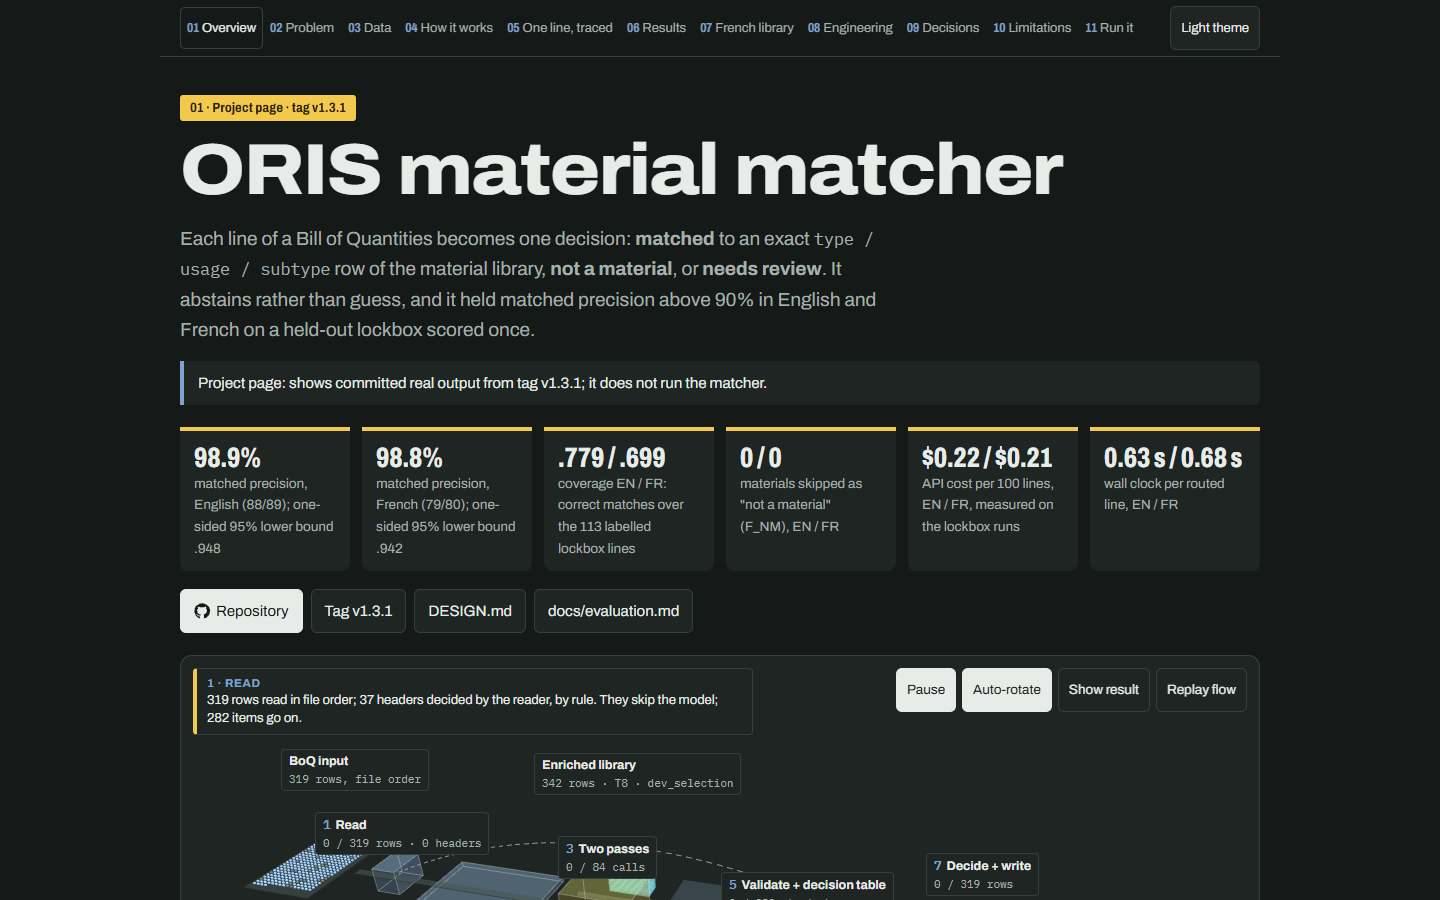
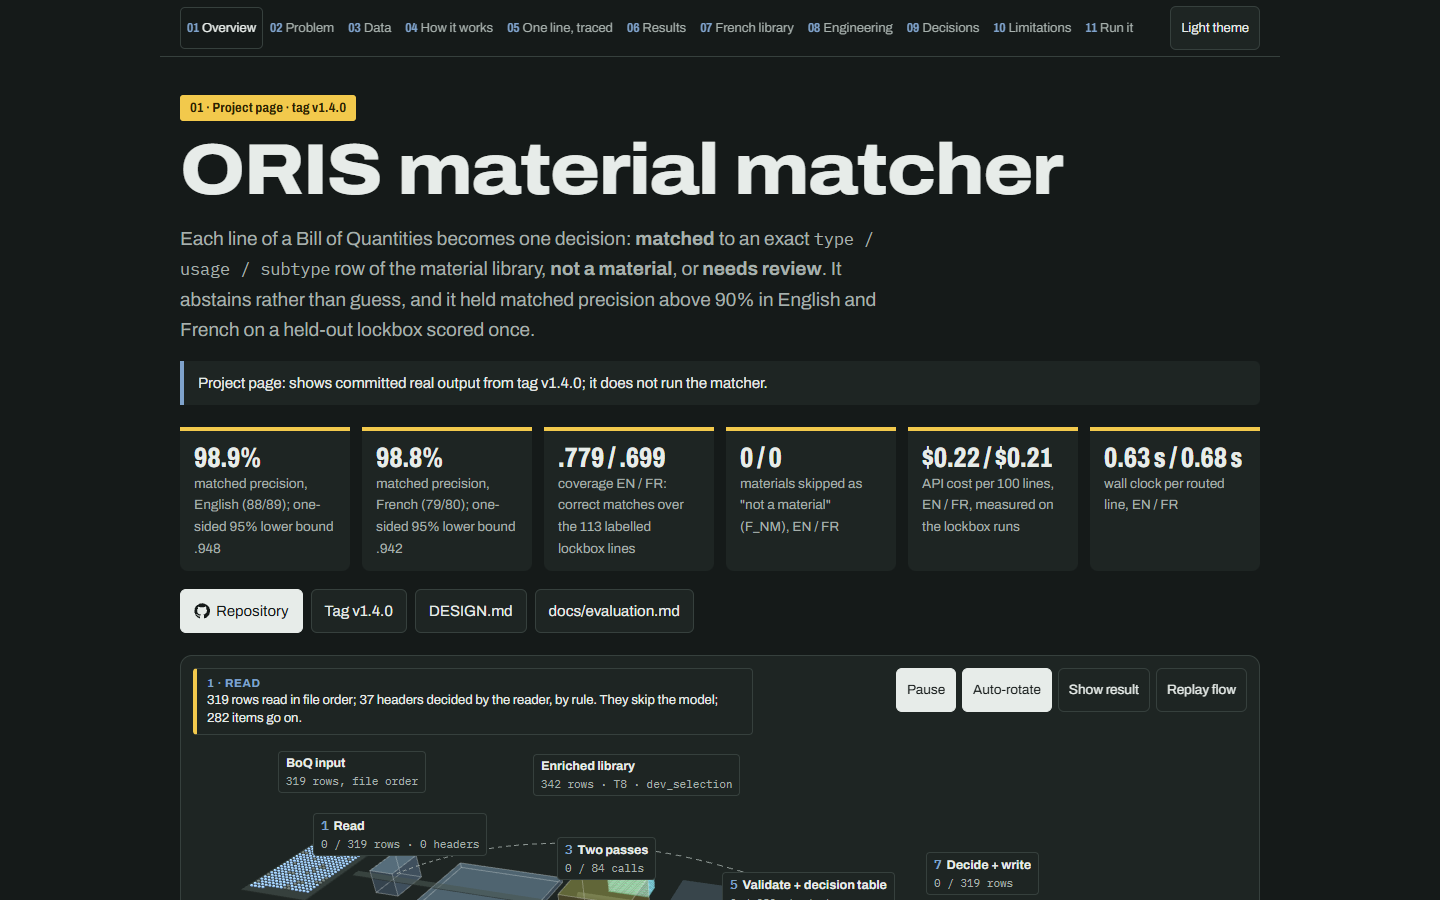
docs(site): reference the operator UI in the README, project page and changelog

diff --git a/site/index.html b/site/index.html
@@ -9,7 +9,7 @@
     <title>ORIS material matcher</title>
     <meta
       name="description"
-      content="Project page for the ORIS material matcher: it maps each Bill of Quantities line to an exact library row, or abstains, with lockbox-measured precision in English and French. Shows committed real output from tag v1.3.1."
+      content="Project page for the ORIS material matcher: it maps each Bill of Quantities line to an exact library row, or abstains, with lockbox-measured precision in English and French. Shows committed real output from tag v1.4.0."
     />
     <meta property="og:type" content="website" />
     <meta property="og:title" content="ORIS material matcher" />
@@ -67,7 +67,7 @@
         <code>data.json</code>, and that file could not be fetched, so the
         figures below are blank. The same numbers are in
         <a
-          href="https://github.com/soneeee22000/oris-material-matcher/blob/v1.3.1/docs/evaluation.md"
+          href="https://github.com/soneeee22000/oris-material-matcher/blob/v1.4.0/docs/evaluation.md"
           >docs/evaluation.md</a
         >.
       </div>
@@ -77,7 +77,7 @@
         style="padding-top: 36px"
         aria-labelledby="h-overview"
       >
-        <span class="tag">01 · Project page · tag v1.3.1</span>
+        <span class="tag">01 · Project page · tag v1.4.0</span>
         <h1 id="h-overview">ORIS material matcher</h1>
         <p class="lead" style="margin-top: 14px">
           Each line of a Bill of Quantities becomes one decision:
@@ -87,7 +87,7 @@
           in English and French on a held-out lockbox scored once.
         </p>
         <p class="honesty" id="honesty">
-          Project page: shows committed real output from tag v1.3.1; it does not
+          Project page: shows committed real output from tag v1.4.0; it does not
           run the matcher.
         </p>
         <div class="kpis" aria-label="The lockbox claim">
@@ -185,17 +185,17 @@
           </a>
           <a
             class="btn"
-            href="https://github.com/soneeee22000/oris-material-matcher/tree/v1.3.1"
-            >Tag v1.3.1</a
+            href="https://github.com/soneeee22000/oris-material-matcher/tree/v1.4.0"
+            >Tag v1.4.0</a
           >
           <a
             class="btn"
-            href="https://github.com/soneeee22000/oris-material-matcher/blob/v1.3.1/DESIGN.md"
+            href="https://github.com/soneeee22000/oris-material-matcher/blob/v1.4.0/DESIGN.md"
             >DESIGN.md</a
           >
           <a
             class="btn"
-            href="https://github.com/soneeee22000/oris-material-matcher/blob/v1.3.1/docs/evaluation.md"
+            href="https://github.com/soneeee22000/oris-material-matcher/blob/v1.4.0/docs/evaluation.md"
             >docs/evaluation.md</a
           >
         </div>
@@ -553,7 +553,7 @@
             <p class="tiny muted" style="margin: 10px 0 0">
               No item-specific rule encodes any of them. Source:
               <a
-                href="https://github.com/soneeee22000/oris-material-matcher/blob/v1.3.1/docs/data-analysis.md"
+                href="https://github.com/soneeee22000/oris-material-matcher/blob/v1.4.0/docs/data-analysis.md"
                 >docs/data-analysis.md</a
               >.
             </p>
@@ -616,7 +616,7 @@
           ground truth. The full transcripts, with every call id and provider
           request id, are in
           <a
-            href="https://github.com/soneeee22000/oris-material-matcher/blob/v1.3.1/docs/traced-cases.md"
+            href="https://github.com/soneeee22000/oris-material-matcher/blob/v1.4.0/docs/traced-cases.md"
             >docs/traced-cases.md</a
           >.
         </p>
@@ -750,7 +750,7 @@
             <p class="tiny muted" style="margin: 10px 0 0">
               Gate record:
               <a
-                href="https://github.com/soneeee22000/oris-material-matcher/blob/v1.3.1/docs/gates/G6.md"
+                href="https://github.com/soneeee22000/oris-material-matcher/blob/v1.4.0/docs/gates/G6.md"
                 >docs/gates/G6.md</a
               >.
             </p>
@@ -852,9 +852,9 @@ GET  /ready      readiness, with no model call</pre>
               every line present and a per-line reason. An optional bearer token
               (<code>ORIS_API_TOKEN</code>) guards
               <code>/v1/*</code>. Each match writes the same run folder as the
-              CLI. <code>GET /v1/diagnostics/llm</code> and the async
-              <code>/v1/jobs</code> routes are designed in DESIGN.md but not
-              built.
+              CLI. The async <code>/v1/jobs</code> routes behind the operator UI
+              came later, in v1.4.0. <code>GET /v1/diagnostics/llm</code> is
+              designed in DESIGN.md but not built.
             </p>
           </div>
           <div class="panel">
@@ -885,6 +885,85 @@ GET  /ready      readiness, with no model call</pre>
             </ul>
           </div>
         </div>
+        <div class="panel" id="operator-ui" style="margin-top: 16px">
+          <h3>Operator UI (local, added after submission)</h3>
+          <div class="grid2">
+            <div style="min-width: 0">
+              <ul class="small list">
+                <li>
+                  Upload a BoQ as CSV or Excel, run it, and read the result as a
+                  table with <code>needs_review</code> rows marked. Filters,
+                  search and sort narrow it down.
+                </li>
+                <li>
+                  Each line opens an audit drawer: the gate that fired, the
+                  reason, the evidence, top-1 and top-2, the model, prompt
+                  version, call ids and the line's raw response.
+                </li>
+                <li>The result downloads as the same CSV the CLI writes.</li>
+                <li>
+                  A banner says before the run when answers are replayed, and
+                  replayed cost is labelled as recorded, with $0 spent.
+                </li>
+                <li>
+                  Replaying the English lockbox run gives
+                  <span
+                    data-k="all_labelled.en.decisions_all_rows.counts.matched"
+                    data-f="int"
+                    >–</span
+                  >
+                  matched,
+                  <span
+                    data-k="all_labelled.en.decisions_all_rows.counts.needs_review"
+                    data-f="int"
+                    >–</span
+                  >
+                  <code>needs_review</code> and
+                  <span
+                    data-k="all_labelled.en.decisions_all_rows.counts.not_a_material"
+                    data-f="int"
+                    >–</span
+                  >
+                  <code>not_a_material</code>, and a
+                  <code>result.csv</code> byte-identical to
+                  <code>output/improved_output_en.csv</code>. The French replay
+                  matches <code>output/improved_output_fr.csv</code> the same
+                  way.
+                </li>
+              </ul>
+              <p class="small" style="margin: 12px 0 4px">
+                <b>Replay, no key, $0</b>
+              </p>
+              <pre><code>uv run oris serve --llm replay:runs/submission/20261008T023928Z-56f85fb8</code></pre>
+              <p class="small" style="margin: 12px 0 4px">
+                <b>Live, paid, needs <code>ANTHROPIC_API_KEY</code></b>
+              </p>
+              <pre><code>uv run oris serve</code></pre>
+              <p class="tiny muted" style="margin: 8px 0 0">
+                Then open <code>http://127.0.0.1:8000/ui/</code>. Not built yet:
+                custom library upload and the row count before the run; the axe
+                contrast check was not run. Spec:
+                <a
+                  href="https://github.com/soneeee22000/oris-material-matcher/blob/v1.4.0/docs/ui-spec.md"
+                  >docs/ui-spec.md</a
+                >.
+              </p>
+            </div>
+            <figure class="shot">
+              <img
+                src="assets/ui-done.png"
+                width="1440"
+                height="900"
+                loading="lazy"
+                decoding="async"
+                alt="The operator UI after a replayed English run: counts for matched, needs review and not a material, filter chips, and the results table with a needs-review row marked in amber."
+              />
+              <figcaption class="tiny muted">
+                Local replay of recorded answers; not a hosted app.
+              </figcaption>
+            </figure>
+          </div>
+        </div>
         <div class="panel" style="margin-top: 16px">
           <h3>CI, on Linux and Windows, offline</h3>
           <div class="chips">
@@ -904,7 +983,7 @@ GET  /ready      readiness, with no model call</pre>
             Tests use a fake LLM with fault injection and the replay adapter;
             nothing in CI needs a key. See
             <a
-              href="https://github.com/soneeee22000/oris-material-matcher/blob/v1.3.1/.github/workflows/ci.yml"
+              href="https://github.com/soneeee22000/oris-material-matcher/blob/v1.4.0/.github/workflows/ci.yml"
               >.github/workflows/ci.yml</a
             >.
           </p>
@@ -976,9 +1055,9 @@ GET  /ready      readiness, with no model call</pre>
                 <b>Not built:</b> the hybrid retriever for large libraries, a
                 local ≤ 8B model adapter and the LLM diagnostics endpoint. The
                 operator UI (<code>oris serve</code>, <code>/ui</code>) was
-                added after submission and is partial: no custom library
-                upload. The triggered <code>header_context</code> arm was not
-                run before the freeze.
+                added after submission and is partial: no custom library upload.
+                The triggered <code>header_context</code> arm was not run before
+                the freeze.
               </li>
             </ul>
           </div>

diff --git a/site/assets/app.js b/site/assets/app.js
@@ -8,7 +8,7 @@
 
   const DATA_URL = "data.json";
   const REPO_URL = "https://github.com/soneeee22000/oris-material-matcher";
-  const TAG = "v1.3.1";
+  const TAG = "v1.4.0";
   const BLOB_URL = `${REPO_URL}/blob/${TAG}/`;
   const CERT_BAR = 0.9;
   const PERCENT = 100;
@@ -961,6 +961,10 @@
     [
       "Replay the English lockbox run byte for byte, at $0",
       "uv run oris demo --lang en",
+    ],
+    [
+      "Open the operator UI on the recorded English run, at $0 (then http://127.0.0.1:8000/ui/)",
+      "uv run oris serve --llm replay:runs/submission/20261008T023928Z-56f85fb8",
     ],
     [
       "Explain one decision from the committed French run",

diff --git a/site/assets/styles.css b/site/assets/styles.css
@@ -159,6 +159,21 @@ section {
   padding: 20px;
   min-width: 0;
 }
+.shot {
+  margin: 0;
+  min-width: 0;
+}
+.shot img {
+  display: block;
+  width: 100%;
+  height: auto;
+  border: 1px solid var(--rule);
+  border-radius: 8px;
+  background: var(--code);
+}
+.shot figcaption {
+  margin-top: 8px;
+}
 .grid2 {
   display: grid;
   grid-template-columns: repeat(auto-fit, minmax(min(100%, 330px), 1fr));

diff --git a/README.md b/README.md
@@ -9,13 +9,11 @@ Maps each line of a construction Bill of Quantities (BoQ) to one exact row of an
 
 ![Pipeline: a BoQ is read (headers decided there), planned into batches, read twice by the model, validated against the decision table, re-checked by the sibling verifier where it would match, then decided and written](docs/media/pipeline.gif)
 
-[Project page](https://oris-material-matcher.vercel.app) · [Results](docs/evaluation.md) · [How it works](#how-it-works) · [Why this exists](#why-this-exists) · [Design](DESIGN.md) · [Data analysis](docs/data-analysis.md) · [Traced cases](docs/traced-cases.md)
+[Project page](https://oris-material-matcher.vercel.app) · [Results](docs/evaluation.md) · [How it works](#how-it-works) · [Operator UI](#operator-ui) · [Why this exists](#why-this-exists) · [Design](DESIGN.md) · [Data analysis](docs/data-analysis.md) · [Traced cases](docs/traced-cases.md)
 
-The [project page](https://oris-material-matcher.vercel.app) shows committed output from the lockbox runs; it does not run the matcher.
+The [project page](https://oris-material-matcher.vercel.app) shows committed output from the lockbox runs; it does not run the matcher. The [operator UI](#operator-ui) does, on your machine.
 
-Each line gets exactly one decision: `matched`, with a `type / usage / subtype` triple copied verbatim from the selected library; `not_a_material`; or `needs_review`, with a reason code and two suggested rows.
-
-The design, the split and the acceptance rule were pre-registered before any model call (tag `prereg-v1`; [`DESIGN.md`](DESIGN.md) §0 is a one-page summary).
+Each line gets exactly one decision: `matched`, with a `type / usage / subtype` triple copied verbatim from the selected library; `not_a_material`; or `needs_review`, with a reason code and two suggested rows. The design, the split and the acceptance rule were pre-registered before any model call (tag `prereg-v1`; [`DESIGN.md`](DESIGN.md) §0 is a one-page summary).
 
 ## The result
 
@@ -53,6 +51,7 @@ Each BoQ line has to be tied to one library row, because that row carries the en
 | Is it engineered                     | Seven stages, one module each, closed-world validation, fail-closed error paths, an audit record per line, byte-identical replay              | [How it works](#how-it-works), [Engineering](#engineering)                                             |
 | Were other models and methods tried  | GPT-4o-mini measured; a post-freeze cross-model vote fails the pre-registered rule; Gemini Flash, embeddings and a local model were not run   | [`docs/alternatives.md`](docs/alternatives.md)                                                         |
 | Can the choices be defended          | Any decision can be explained from the stored calls at $0                                                                                     | [A traced wrong match](#a-traced-wrong-match), [`docs/traced-cases.md`](docs/traced-cases.md)          |
+| Optional web UI                      | After submission (`v1.4.0`): CSV or `.xlsx` upload, run, decision and labels per line, `needs_review` rows marked and filterable              | [Operator UI](#operator-ui), [`docs/ui-spec.md`](docs/ui-spec.md)                                      |
 | How to run it; weaknesses; more time | $0 commands, the live-session command, known weaknesses and what I would do with more time                                                    | [Run it at $0](#run-it-at-0), [Known weaknesses](#known-weaknesses), [With more time](#with-more-time) |
 
 Every requirement in the brief is mapped to its evidence in [`docs/requirements-traceability.md`](docs/requirements-traceability.md).
@@ -98,17 +97,18 @@ Without `--profile b0`, a live run on either exercise file is refused unless the
 
 ### Operator UI
 
-`oris serve` puts the same service behind a browser UI at `/ui`: upload a BoQ (`.csv`, or `.xlsx` with the `xlsx` extra), run it, filter the `needs_review` lines, open any line's audit record and download the CSV. At $0 it replays the recorded English lockbox run, and no model is called:
+The brief's optional web UI, added after submission in `v1.4.0` (the submitted `v1.3.0` does not have it). `oris serve` puts the same service behind a browser page at `/ui`: upload a BoQ (`.csv`, or `.xlsx` with the `xlsx` extra), run it, and read every line with its decision and three labels. `needs_review` rows are marked, counted and filtered in one click, and any line opens its audit record. At $0 it replays a recorded lockbox run, and no model is called:
 
 ```bash
 uv run oris serve --llm replay:runs/submission/20261008T023928Z-56f85fb8
 ```
 
-Open http://127.0.0.1:8000/ui/ and upload `input/boq_dataset_input_en.csv`; the downloaded CSV is byte-identical to `output/improved_output_en.csv`. A line that is not in the recording goes to review as `LLM_FAILURE:replay_miss`. With `ANTHROPIC_API_KEY` set, `uv run oris serve` calls the pinned model and is paid. It is a local tool (one worker, jobs kept in memory for an hour), not part of the submitted `v1.3.1` (it follows in `v1.4.0`); custom library upload is not built.
+Open http://127.0.0.1:8000/ui/ and upload `input/boq_dataset_input_en.csv`. It ends with 185 matched, 90 `needs_review` and 44 `not_a_material`, and the downloaded CSV is byte-identical to `output/improved_output_en.csv`; the French run `runs/submission/20261008T024244Z-de394c39`, given `input/boq_dataset_input_fr.csv` with the library left on Global, does the same for `output/improved_output_fr.csv`. A banner states replay mode before the run, and cost reads "Recorded cost (replay, $0 spent)". A line not in the recording goes to review as `LLM_FAILURE:replay_miss`. With `ANTHROPIC_API_KEY` set, `uv run oris serve` calls the pinned model and is paid. It runs locally (one worker, jobs kept in memory for an hour) and is not hosted; its gaps are under [Known weaknesses](#known-weaknesses).
 
-![Operator UI after a replay of the English lockbox run: decision counts, recorded cost, and the results table with needs_review rows marked](docs/media/ui-done.png)
+| ![Operator UI after a replay of the English lockbox run: decision counts, recorded cost, and the results table with needs_review rows marked](docs/media/ui-done.png) | ![Operator UI with the needs_review filter on: only review lines, each with its reason code](docs/media/ui-review-filter.png) |
+| --------------------------------------------------------------------------------------------------------------------------------------------------------------------- | ----------------------------------------------------------------------------------------------------------------------------- |
 
-_Local replay of recorded answers at $0 (2026-10-09). No model was called; the wall clock shown is the replay's, not model latency._
+_Local replay of recorded answers at $0 (2026-10-09): the finished run, and the `needs_review` filter. No model was called; the wall clock shown is the replay's, not model latency._
 
 ### Every entry point
 
@@ -261,7 +261,7 @@ One cost was accepted knowingly. On dev, the same enriched votes without the ver
 - **Audit trail.** Each run writes `runs/<run_id>/` with `calls.jsonl` (one record per attempt, OTel GenAI field names, provider request id, served model, finish reasons, cost, latency), `audit.jsonl` (one record per line), `manifest.json` and the stored system prompts under `prompts/`.
 - **API.** FastAPI, `POST /v1/match` on the same `MatchService` as the CLI, plus `GET /health` and `GET /ready`; `/v1/*` needs a Bearer token when `ORIS_API_TOKEN` is set to a non-blank value. Run it with `uv run uvicorn --factory oris_matcher.api.app:create_app`, or `uv run oris serve` for the same app with the async jobs API and the operator UI.
 - **LLM boundary.** Two thin adapters (Anthropic, OpenAI) behind one port; retry, budget, cost, recording and the response cache live in one wrapper, with no LLM framework or gateway (D-17).
-- **CI** ([`ci.yml`](.github/workflows/ci.yml)). Ubuntu and Windows: ruff check and format, `mypy --strict`, the test suite with an 80% coverage floor on the domain and the service, a clean-clone B0 run checked against the requirements, a byte-identical replay of both lockbox outputs, and a drift check on the project page data. A `ui` job type-checks and rebuilds the UI, fails if the committed bundle differs, and runs a Chromium smoke test.
+- **CI** ([`ci.yml`](.github/workflows/ci.yml)). Ubuntu and Windows: ruff check and format, `mypy --strict`, the test suite with an 80% coverage floor on the domain and the service, a clean-clone B0 run checked against the requirements, a byte-identical replay of both lockbox outputs, and a drift check on the project page data. A `ui` job type-checks and rebuilds the UI, fails if the committed bundle differs, and runs a Chromium smoke test against a mocked API.
 
 ```text
 src/oris_matcher/   CLI, service, domain (parsing, validators, decision table), llm/ adapters, api/, io/

diff --git a/CHANGELOG.md b/CHANGELOG.md
@@ -4,7 +4,7 @@ Each release is an annotated git tag. The lockbox claim belongs to `v1.0`, evalu
 
 ## v1.4.0 (2026-10-09)
 
-Operator UI, added after submission. No matching, decision, configuration, output or scored number changed; the submitted version stays `v1.3.0`, and the `v1.4.0` tag is not created yet.
+Operator UI. It is not part of the submitted `v1.3.1`. No matching, decision, configuration, output or scored number changed, and the `v1.4.0` tag is not created yet.
 
 - `oris serve` runs the API and the operator UI at `/ui` (`docs/ui-spec.md`) in one worker on `127.0.0.1:8000`. `--llm` picks the model: `live` (the pinned primary, paid), `fake` (offline, not a measurement) or `replay:<run_dir>` (recorded answers at $0; a line not in the recording goes to review as `LLM_FAILURE:replay_miss`, and only the recorded library is accepted). It warns when the UI build is missing, or when it binds beyond loopback without a token.
 - The UI is vanilla TypeScript bundled by esbuild into `src/oris_matcher/api/static/ui/`, so serving it needs no Node. It covers U1–U4: upload, progress, the results table with `needs_review` rows marked, filters, search, sort, the per-line audit drawer, a banner naming each failure reason, "Retry failed lines" (live and fake only), shareable `#job=` links and the CSV download. A banner states replay or fake mode before the run, and replay figures are labelled as recorded, not measured.

diff --git a/docs/WHY.md b/docs/WHY.md
@@ -19,7 +19,7 @@ The people this matters to are the analysts who prepare impact assessments and t
 
 ## What this is not
 
-- **Not a product deployment.** It is a take-home exercise: a CLI, an API and committed outputs, not a service running behind a platform.
+- **Not a product deployment.** It is a take-home exercise: a CLI, an API, a local operator UI and committed outputs, not a service running behind a platform.
 - **Scored on one project's BoQ.** The held-out lines come from the same project as the development lines, so the result says nothing yet about other projects or other writers.
 - **The French library is certified by a smoke set, not a held-out bound.** It shows the operating point is safe on that taxonomy; it does not estimate precision there.
 - **The UI is a local operator tool, added after submission.** `oris serve` serves it at `/ui` on this machine; it is not hosted anywhere, and in replay mode it shows recorded answers, not a model run. What it leaves out of [`ui-spec.md`](ui-spec.md) is listed in the [changelog](../CHANGELOG.md).
